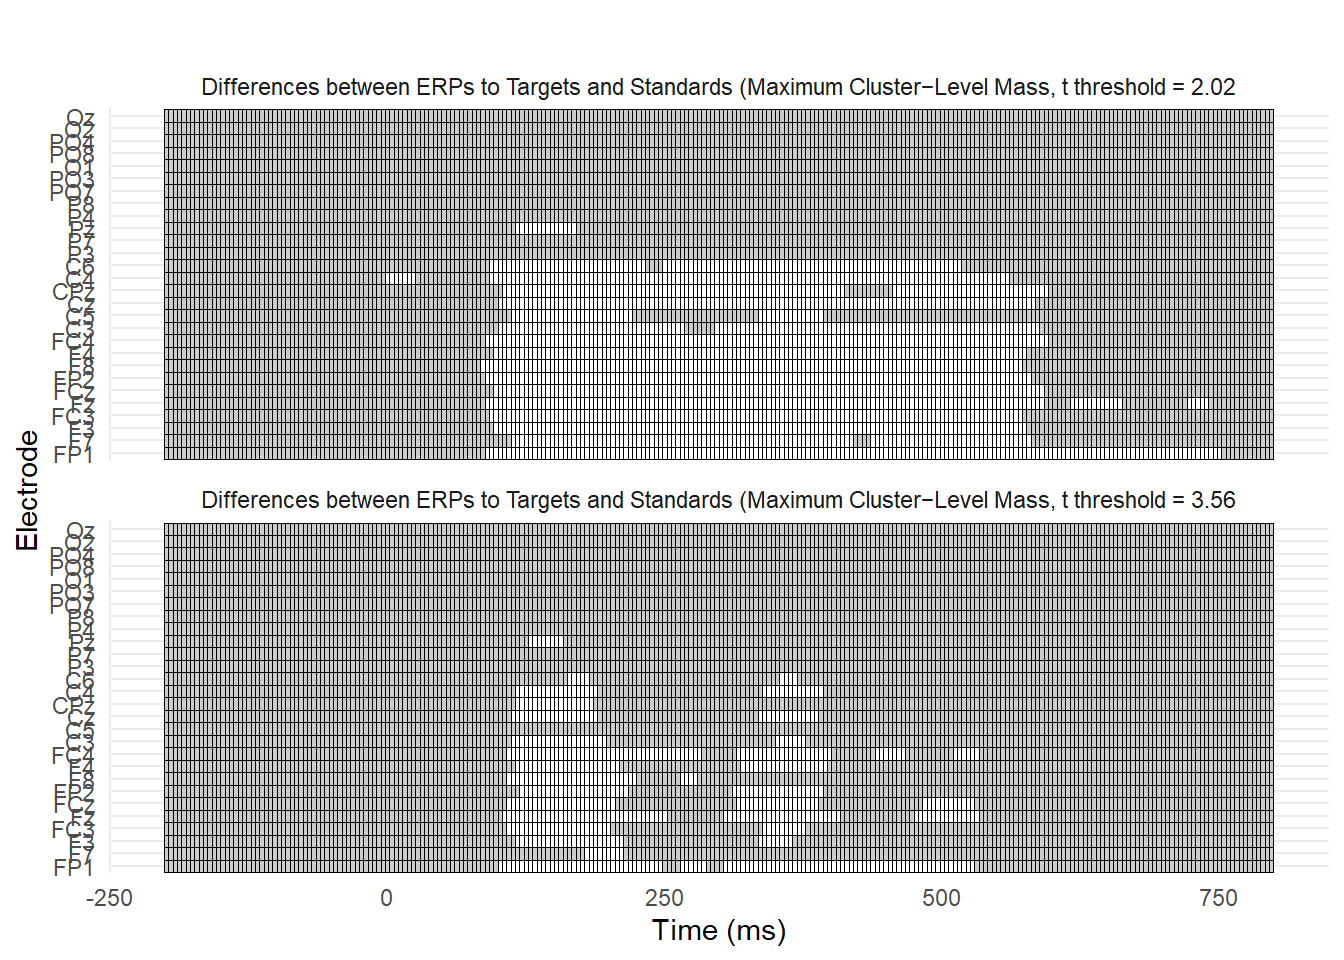
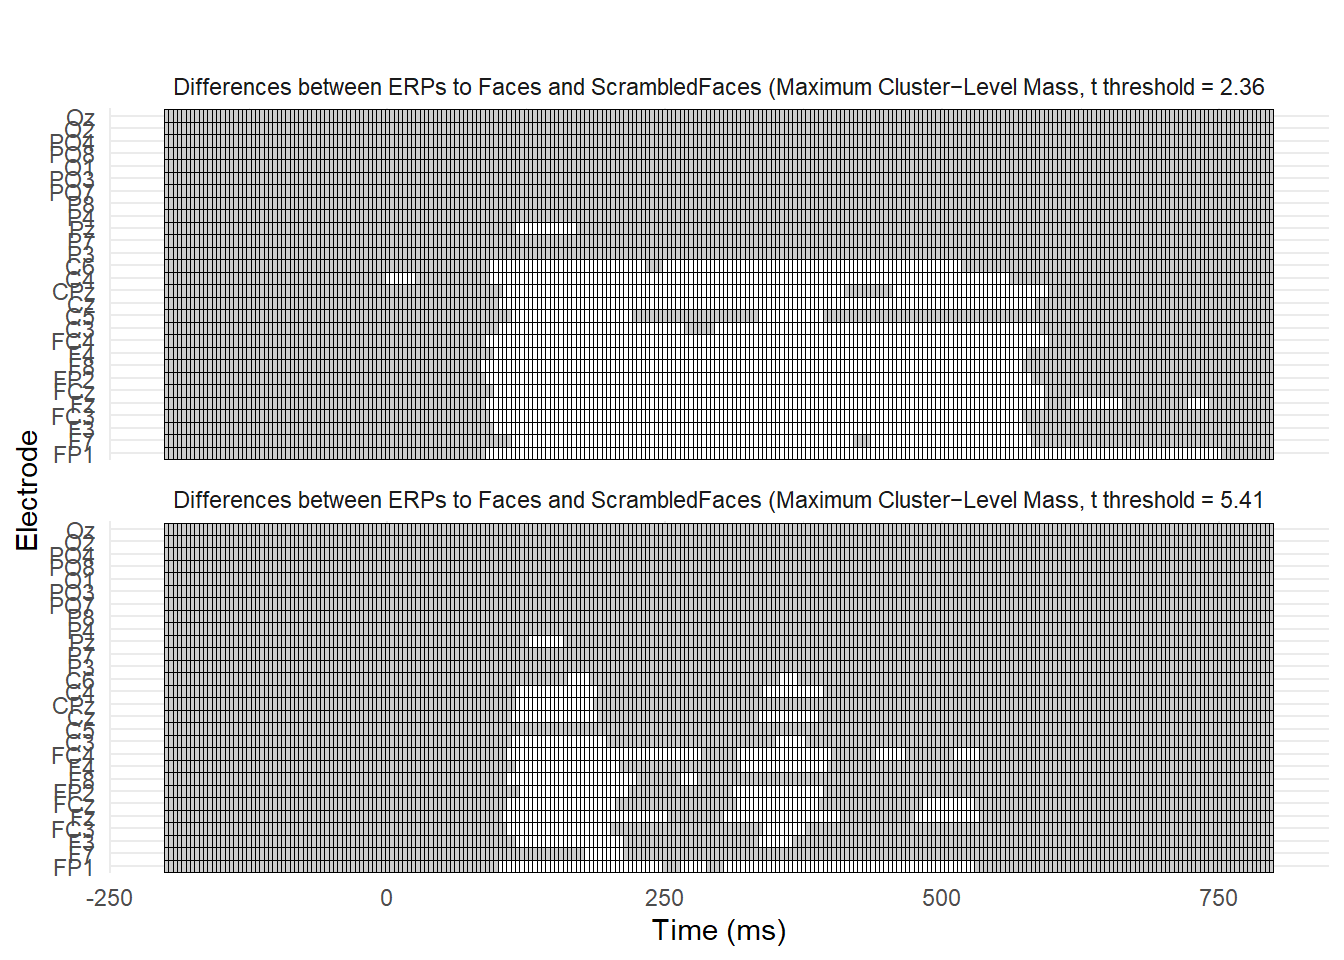
update

Changed region(s): [[0.125, 0.0625, 0.9375, 0.125], [0.125, 0.5, 0.9375, 0.5312]]

diff --git a/progettotest.html b/progettotest.html
@@ -191,8 +191,8 @@ Figure&nbsp;1: <strong>Figura 1.</strong> ERP (<em>Event-related potentials</em>
 <span id="cb3-23"><a href="#cb3-23" aria-hidden="true" tabindex="-1"></a>    )</span>
 <span id="cb3-24"><a href="#cb3-24" aria-hidden="true" tabindex="-1"></a>  )<span class="sc">%&gt;%</span></span>
 <span id="cb3-25"><a href="#cb3-25" aria-hidden="true" tabindex="-1"></a>  <span class="fu">mutate</span>(<span class="at">threshold_label =</span> <span class="fu">case_when</span>(</span>
-<span id="cb3-26"><a href="#cb3-26" aria-hidden="true" tabindex="-1"></a>    threshold <span class="sc">==</span> t_crit_05 <span class="sc">~</span> <span class="st">"Differences between ERPs to Targets and Standards (Maximum Cluster−Level Mass, t threshold = 2.02"</span>,</span>
-<span id="cb3-27"><a href="#cb3-27" aria-hidden="true" tabindex="-1"></a>    threshold <span class="sc">==</span> t_crit_001 <span class="sc">~</span> <span class="st">"Differences between ERPs to Targets and Standards (Maximum Cluster−Level Mass, t threshold = 3.56"</span></span>
+<span id="cb3-26"><a href="#cb3-26" aria-hidden="true" tabindex="-1"></a>    threshold <span class="sc">==</span> t_crit_05 <span class="sc">~</span> <span class="st">"Differences between ERPs to Faces and ScrambledFaces (Maximum Cluster−Level Mass, t threshold = 2.36"</span>,</span>
+<span id="cb3-27"><a href="#cb3-27" aria-hidden="true" tabindex="-1"></a>    threshold <span class="sc">==</span> t_crit_001 <span class="sc">~</span> <span class="st">"Differences between ERPs to Faces and ScrambledFaces (Maximum Cluster−Level Mass, t threshold = 5.41"</span></span>
 <span id="cb3-28"><a href="#cb3-28" aria-hidden="true" tabindex="-1"></a>  ))</span>
 <span id="cb3-29"><a href="#cb3-29" aria-hidden="true" tabindex="-1"></a></span>
 <span id="cb3-30"><a href="#cb3-30" aria-hidden="true" tabindex="-1"></a><span class="co"># 4) Plot with ggplot2</span></span>
@@ -210,6 +210,186 @@ Figure&nbsp;1: <strong>Figura 1.</strong> ERP (<em>Event-related potentials</em>
 <div>
 <figure class="figure">
 <p><img src="progettotest_files/figure-html/unnamed-chunk-7-1.png" class="img-fluid figure-img" width="672"></p>
+</figure>
+</div>
+</div>
+</div>
+<div class="cell">
+<div class="sourceCode cell-code" id="cb4"><pre class="sourceCode r code-with-copy"><code class="sourceCode r"><span id="cb4-1"><a href="#cb4-1" aria-hidden="true" tabindex="-1"></a><span class="co"># 3) Build the full grid of channel×time:</span></span>
+<span id="cb4-2"><a href="#cb4-2" aria-hidden="true" tabindex="-1"></a>full_grid <span class="ot">&lt;-</span> <span class="fu">expand_grid</span>(</span>
+<span id="cb4-3"><a href="#cb4-3" aria-hidden="true" tabindex="-1"></a>  <span class="at">channel =</span> <span class="fu">unique</span>(t_df<span class="sc">$</span>channel),</span>
+<span id="cb4-4"><a href="#cb4-4" aria-hidden="true" tabindex="-1"></a>  <span class="at">time    =</span> <span class="fu">unique</span>(t_df<span class="sc">$</span>time)</span>
+<span id="cb4-5"><a href="#cb4-5" aria-hidden="true" tabindex="-1"></a>)</span>
+<span id="cb4-6"><a href="#cb4-6" aria-hidden="true" tabindex="-1"></a></span>
+<span id="cb4-7"><a href="#cb4-7" aria-hidden="true" tabindex="-1"></a><span class="co"># 4) Left‐join both tables onto it:</span></span>
+<span id="cb4-8"><a href="#cb4-8" aria-hidden="true" tabindex="-1"></a>plot_df <span class="ot">&lt;-</span> full_grid <span class="sc">%&gt;%</span></span>
+<span id="cb4-9"><a href="#cb4-9" aria-hidden="true" tabindex="-1"></a>  <span class="fu">left_join</span>(t_df <span class="sc">%&gt;%</span> <span class="fu">select</span>(channel, time, t_obs), <span class="at">by =</span> <span class="fu">c</span>(<span class="st">"channel"</span>,<span class="st">"time"</span>)) <span class="sc">%&gt;%</span></span>
+<span id="cb4-10"><a href="#cb4-10" aria-hidden="true" tabindex="-1"></a>  <span class="fu">left_join</span>(raster_df <span class="sc">%&gt;%</span> <span class="fu">select</span>(channel, time, p_adj), <span class="at">by =</span> <span class="fu">c</span>(<span class="st">"channel"</span>,<span class="st">"time"</span>))</span>
+<span id="cb4-11"><a href="#cb4-11" aria-hidden="true" tabindex="-1"></a>t_crit_05 <span class="ot">&lt;-</span> <span class="fl">2.36</span></span>
+<span id="cb4-12"><a href="#cb4-12" aria-hidden="true" tabindex="-1"></a><span class="co"># For uncorrected p &lt; 0.001</span></span>
+<span id="cb4-13"><a href="#cb4-13" aria-hidden="true" tabindex="-1"></a>t_crit_001 <span class="ot">&lt;-</span> <span class="fl">5.41</span></span>
+<span id="cb4-14"><a href="#cb4-14" aria-hidden="true" tabindex="-1"></a><span class="co"># After running the first with t_crit = 2.36</span></span>
+<span id="cb4-15"><a href="#cb4-15" aria-hidden="true" tabindex="-1"></a>final_df_A <span class="ot">&lt;-</span> plot_df <span class="sc">%&gt;%</span> <span class="fu">mutate</span>(<span class="at">threshold =</span> t_crit_05)</span>
+<span id="cb4-16"><a href="#cb4-16" aria-hidden="true" tabindex="-1"></a><span class="co"># After running the second with t_crit = 5.41</span></span>
+<span id="cb4-17"><a href="#cb4-17" aria-hidden="true" tabindex="-1"></a>final_df_B <span class="ot">&lt;-</span> plot_df <span class="sc">%&gt;%</span> <span class="fu">mutate</span>(<span class="at">threshold =</span> t_crit_001)</span>
+<span id="cb4-18"><a href="#cb4-18" aria-hidden="true" tabindex="-1"></a>combined_df <span class="ot">&lt;-</span> <span class="fu">bind_rows</span>(final_df_A, final_df_B)</span>
+<span id="cb4-19"><a href="#cb4-19" aria-hidden="true" tabindex="-1"></a>combined_df <span class="ot">&lt;-</span> combined_df <span class="sc">%&gt;%</span></span>
+<span id="cb4-20"><a href="#cb4-20" aria-hidden="true" tabindex="-1"></a>  <span class="fu">mutate</span>(</span>
+<span id="cb4-21"><a href="#cb4-21" aria-hidden="true" tabindex="-1"></a>    <span class="at">color =</span> <span class="fu">case_when</span>(</span>
+<span id="cb4-22"><a href="#cb4-22" aria-hidden="true" tabindex="-1"></a>      t_obs <span class="sc">&gt;</span>  threshold  <span class="sc">~</span> <span class="st">"white"</span>,  <span class="co"># significant positive</span></span>
+<span id="cb4-23"><a href="#cb4-23" aria-hidden="true" tabindex="-1"></a>      t_obs <span class="sc">&lt;</span> <span class="sc">-</span>threshold  <span class="sc">~</span> <span class="st">"black"</span>,  <span class="co"># significant negative</span></span>
+<span id="cb4-24"><a href="#cb4-24" aria-hidden="true" tabindex="-1"></a>      <span class="cn">TRUE</span>                              <span class="sc">~</span> <span class="st">"grey80"</span>  <span class="co"># all else</span></span>
+<span id="cb4-25"><a href="#cb4-25" aria-hidden="true" tabindex="-1"></a>    )</span>
+<span id="cb4-26"><a href="#cb4-26" aria-hidden="true" tabindex="-1"></a>  )<span class="sc">%&gt;%</span></span>
+<span id="cb4-27"><a href="#cb4-27" aria-hidden="true" tabindex="-1"></a>  <span class="fu">mutate</span>(<span class="at">threshold_label =</span> <span class="fu">case_when</span>(</span>
+<span id="cb4-28"><a href="#cb4-28" aria-hidden="true" tabindex="-1"></a>    threshold <span class="sc">==</span> t_crit_05 <span class="sc">~</span> <span class="st">"Differences between ERPs to Targets and Standards (Maximum Cluster−Level Mass, t threshold = 2.36"</span>,</span>
+<span id="cb4-29"><a href="#cb4-29" aria-hidden="true" tabindex="-1"></a>    threshold <span class="sc">==</span> t_crit_001 <span class="sc">~</span> <span class="st">"Differences between ERPs to Targets and Standards (Maximum Cluster−Level Mass, t threshold = 5.41"</span></span>
+<span id="cb4-30"><a href="#cb4-30" aria-hidden="true" tabindex="-1"></a>  ))</span>
+<span id="cb4-31"><a href="#cb4-31" aria-hidden="true" tabindex="-1"></a><span class="co"># 4) Plot with ggplot2</span></span>
+<span id="cb4-32"><a href="#cb4-32" aria-hidden="true" tabindex="-1"></a><span class="fu">ggplot</span>(combined_df, <span class="fu">aes</span>(<span class="at">x =</span> time, <span class="at">y =</span> channel, <span class="at">fill =</span> color)) <span class="sc">+</span></span>
+<span id="cb4-33"><a href="#cb4-33" aria-hidden="true" tabindex="-1"></a>  <span class="fu">geom_tile</span>(<span class="at">color =</span> <span class="st">"black"</span>, <span class="at">size =</span> <span class="fl">0.3</span>) <span class="sc">+</span> </span>
+<span id="cb4-34"><a href="#cb4-34" aria-hidden="true" tabindex="-1"></a>  <span class="fu">facet_wrap</span>(<span class="sc">~</span> threshold_label, <span class="at">ncol =</span> <span class="dv">1</span>) <span class="sc">+</span></span>
+<span id="cb4-35"><a href="#cb4-35" aria-hidden="true" tabindex="-1"></a>  <span class="fu">scale_fill_manual</span>(<span class="at">values =</span> <span class="fu">c</span>(<span class="st">"white"</span> <span class="ot">=</span> <span class="st">"white"</span>, <span class="st">"black"</span> <span class="ot">=</span> <span class="st">"black"</span>, <span class="st">"grey80"</span> <span class="ot">=</span> <span class="st">"grey80"</span>)) <span class="sc">+</span></span>
+<span id="cb4-36"><a href="#cb4-36" aria-hidden="true" tabindex="-1"></a>  <span class="fu">labs</span>(</span>
+<span id="cb4-37"><a href="#cb4-37" aria-hidden="true" tabindex="-1"></a>    <span class="at">title =</span> <span class="st">""</span>,</span>
+<span id="cb4-38"><a href="#cb4-38" aria-hidden="true" tabindex="-1"></a>    <span class="at">x =</span> <span class="st">"Time (ms)"</span>, <span class="at">y =</span> <span class="st">"Electrode"</span></span>
+<span id="cb4-39"><a href="#cb4-39" aria-hidden="true" tabindex="-1"></a>  ) <span class="sc">+</span></span>
+<span id="cb4-40"><a href="#cb4-40" aria-hidden="true" tabindex="-1"></a>  <span class="fu">theme_minimal</span>() <span class="sc">+</span></span>
+<span id="cb4-41"><a href="#cb4-41" aria-hidden="true" tabindex="-1"></a>  <span class="fu">theme</span>(<span class="at">legend.position =</span> <span class="st">"none"</span>)</span></code><button title="Copy to Clipboard" class="code-copy-button"><i class="bi"></i></button></pre></div>
+<div class="cell-output-display">
+<div>
+<figure class="figure">
+<p><img src="progettotest_files/figure-html/unnamed-chunk-8-1.png" class="img-fluid figure-img" width="672"></p>
+</figure>
+</div>
+</div>
+</div>
+<div class="cell">
+<div class="sourceCode cell-code" id="cb5"><pre class="sourceCode r code-with-copy"><code class="sourceCode r"><span id="cb5-1"><a href="#cb5-1" aria-hidden="true" tabindex="-1"></a>df_CAD <span class="ot">&lt;-</span> df <span class="sc">%&gt;%</span> </span>
+<span id="cb5-2"><a href="#cb5-2" aria-hidden="true" tabindex="-1"></a>  <span class="fu">filter</span>(time <span class="sc">&gt;=</span> <span class="dv">150</span>, time <span class="sc">&lt;=</span> <span class="dv">190</span>,channel <span class="sc">%in%</span> <span class="fu">c</span>(<span class="st">"F4"</span>,<span class="st">"FC4"</span>,<span class="st">"F8"</span>)) </span>
+<span id="cb5-3"><a href="#cb5-3" aria-hidden="true" tabindex="-1"></a>mod_mix<span class="ot">=</span><span class="fu">lmer</span>(value<span class="sc">~</span> channel<span class="sc">*</span>condition <span class="sc">+</span>(channel<span class="sc">|</span>id),<span class="at">data=</span>df_CAD,<span class="at">control =</span> <span class="fu">lmerControl</span>(<span class="at">optimizer =</span> <span class="st">"optimx"</span>, <span class="at">optCtrl =</span> <span class="fu">list</span>(<span class="at">method =</span> <span class="st">"nlminb"</span>)))</span></code><button title="Copy to Clipboard" class="code-copy-button"><i class="bi"></i></button></pre></div>
+<div class="cell-output cell-output-stderr">
+<pre><code>Caricamento dei namespace richiesti: optimx</code></pre>
+</div>
+<div class="sourceCode cell-code" id="cb7"><pre class="sourceCode r code-with-copy"><code class="sourceCode r"><span id="cb7-1"><a href="#cb7-1" aria-hidden="true" tabindex="-1"></a>car<span class="sc">::</span><span class="fu">Anova</span>(mod_mix)</span></code><button title="Copy to Clipboard" class="code-copy-button"><i class="bi"></i></button></pre></div>
+<div class="cell-output cell-output-stdout">
+<pre><code>Analysis of Deviance Table (Type II Wald chisquare tests)
+
+Response: value
+                     Chisq Df Pr(&gt;Chisq)    
+channel             17.861  2  0.0001323 ***
+condition         1914.497  1  &lt; 2.2e-16 ***
+channel:condition   10.633  2  0.0049098 ** 
+---
+Signif. codes:  0 '***' 0.001 '**' 0.01 '*' 0.05 '.' 0.1 ' ' 1</code></pre>
+</div>
+<div class="sourceCode cell-code" id="cb9"><pre class="sourceCode r code-with-copy"><code class="sourceCode r"><span id="cb9-1"><a href="#cb9-1" aria-hidden="true" tabindex="-1"></a>df_CAD<span class="sc">$</span>residuals<span class="ot">=</span><span class="fu">residuals</span>(mod_mix)</span>
+<span id="cb9-2"><a href="#cb9-2" aria-hidden="true" tabindex="-1"></a>p <span class="ot">&lt;-</span> <span class="fu">ggplot</span>(df_CAD, <span class="fu">aes</span>(<span class="at">x=</span>id, <span class="at">y=</span>residuals,<span class="at">fill=</span>condition)) <span class="sc">+</span> <span class="fu">geom_boxplot</span>()</span>
+<span id="cb9-3"><a href="#cb9-3" aria-hidden="true" tabindex="-1"></a>p</span></code><button title="Copy to Clipboard" class="code-copy-button"><i class="bi"></i></button></pre></div>
+<div class="cell-output-display">
+<div>
+<figure class="figure">
+<p><img src="progettotest_files/figure-html/unnamed-chunk-9-1.png" class="img-fluid figure-img" width="672"></p>
+</figure>
+</div>
+</div>
+</div>
+<div class="cell">
+<div class="sourceCode cell-code" id="cb10"><pre class="sourceCode r code-with-copy"><code class="sourceCode r"><span id="cb10-1"><a href="#cb10-1" aria-hidden="true" tabindex="-1"></a>dataCoeff<span class="ot">=</span><span class="fu">obs2coeffWithin</span>(value<span class="sc">~</span> channel<span class="sc">*</span>condition,<span class="at">data=</span>df,<span class="at">units=</span><span class="sc">~</span>id)</span>
+<span id="cb10-2"><a href="#cb10-2" aria-hidden="true" tabindex="-1"></a><span class="fu">colnames</span>(dataCoeff<span class="sc">$</span>coeffWithin)</span></code><button title="Copy to Clipboard" class="code-copy-button"><i class="bi"></i></button></pre></div>
+<div class="cell-output cell-output-stdout">
+<pre><code> [1] "(Intercept)"                        "channelF7"                         
+ [3] "channelF3"                          "channelFC3"                        
+ [5] "channelFz"                          "channelFCz"                        
+ [7] "channelFP2"                         "channelF8"                         
+ [9] "channelF4"                          "channelFC4"                        
+[11] "channelC3"                          "channelC5"                         
+[13] "channelCz"                          "channelCPz"                        
+[15] "channelC4"                          "channelC6"                         
+[17] "channelP3"                          "channelP7"                         
+[19] "channelPz"                          "channelP4"                         
+[21] "channelP8"                          "channelPO7"                        
+[23] "channelPO3"                         "channelO1"                         
+[25] "channelPO8"                         "channelPO4"                        
+[27] "channelO2"                          "channelOz"                         
+[29] "conditionScrambledFaces"            "channelF7:conditionScrambledFaces" 
+[31] "channelF3:conditionScrambledFaces"  "channelFC3:conditionScrambledFaces"
+[33] "channelFz:conditionScrambledFaces"  "channelFCz:conditionScrambledFaces"
+[35] "channelFP2:conditionScrambledFaces" "channelF8:conditionScrambledFaces" 
+[37] "channelF4:conditionScrambledFaces"  "channelFC4:conditionScrambledFaces"
+[39] "channelC3:conditionScrambledFaces"  "channelC5:conditionScrambledFaces" 
+[41] "channelCz:conditionScrambledFaces"  "channelCPz:conditionScrambledFaces"
+[43] "channelC4:conditionScrambledFaces"  "channelC6:conditionScrambledFaces" 
+[45] "channelP3:conditionScrambledFaces"  "channelP7:conditionScrambledFaces" 
+[47] "channelPz:conditionScrambledFaces"  "channelP4:conditionScrambledFaces" 
+[49] "channelP8:conditionScrambledFaces"  "channelPO7:conditionScrambledFaces"
+[51] "channelPO3:conditionScrambledFaces" "channelO1:conditionScrambledFaces" 
+[53] "channelPO8:conditionScrambledFaces" "channelPO4:conditionScrambledFaces"
+[55] "channelO2:conditionScrambledFaces"  "channelOz:conditionScrambledFaces" </code></pre>
+</div>
+<div class="sourceCode cell-code" id="cb12"><pre class="sourceCode r code-with-copy"><code class="sourceCode r"><span id="cb12-1"><a href="#cb12-1" aria-hidden="true" tabindex="-1"></a>Y<span class="ot">=</span>dataCoeff<span class="sc">$</span>coeffWithin[,<span class="dv">29</span>]<span class="sc">+</span><span class="fu">cbind</span>(<span class="at">channelFP1=</span><span class="dv">0</span>,dataCoeff<span class="sc">$</span>coeffWithin[,<span class="dv">30</span><span class="sc">:</span><span class="dv">56</span>])</span>
+<span id="cb12-2"><a href="#cb12-2" aria-hidden="true" tabindex="-1"></a><span class="fu">colnames</span>(Y)<span class="ot">=</span><span class="fu">gsub</span>(<span class="st">":conditionScrambledFaces"</span>,<span class="st">""</span>,<span class="fu">colnames</span>(Y))</span>
+<span id="cb12-3"><a href="#cb12-3" aria-hidden="true" tabindex="-1"></a><span class="fu">colnames</span>(Y)</span></code><button title="Copy to Clipboard" class="code-copy-button"><i class="bi"></i></button></pre></div>
+<div class="cell-output cell-output-stdout">
+<pre><code> [1] "channelFP1" "channelF7"  "channelF3"  "channelFC3" "channelFz" 
+ [6] "channelFCz" "channelFP2" "channelF8"  "channelF4"  "channelFC4"
+[11] "channelC3"  "channelC5"  "channelCz"  "channelCPz" "channelC4" 
+[16] "channelC6"  "channelP3"  "channelP7"  "channelPz"  "channelP4" 
+[21] "channelP8"  "channelPO7" "channelPO3" "channelO1"  "channelPO8"
+[26] "channelPO4" "channelO2"  "channelOz" </code></pre>
+</div>
+<div class="sourceCode cell-code" id="cb14"><pre class="sourceCode r code-with-copy"><code class="sourceCode r"><span id="cb14-1"><a href="#cb14-1" aria-hidden="true" tabindex="-1"></a>res<span class="ot">=</span><span class="fu">flip</span>(Y,<span class="at">perms=</span><span class="dv">10000</span>)</span>
+<span id="cb14-2"><a href="#cb14-2" aria-hidden="true" tabindex="-1"></a>res<span class="ot">=</span><span class="fu">flip.adjust</span>(res)</span>
+<span id="cb14-3"><a href="#cb14-3" aria-hidden="true" tabindex="-1"></a><span class="fu">summary</span>(res)</span></code><button title="Copy to Clipboard" class="code-copy-button"><i class="bi"></i></button></pre></div>
+<div class="cell-output cell-output-stdout">
+<pre><code> Call:
+ flip(Y = Y, perms = 10000) 
+9999 permutations.
+
+           Test   Stat tail p-value Adjust:maxT sig.
+channelFP1    t -6.650   &gt;&lt;  0.0002      0.0002  ***
+channelF7     t -4.192   &gt;&lt;  0.0002      0.0006  ***
+channelF3     t -4.061   &gt;&lt;  0.0004      0.0006  ***
+channelFC3    t -3.393   &gt;&lt;  0.0002      0.0036   **
+channelFz     t -7.126   &gt;&lt;  0.0002      0.0002  ***
+channelFCz    t -6.458   &gt;&lt;  0.0002      0.0002  ***
+channelFP2    t -4.953   &gt;&lt;  0.0002      0.0002  ***
+channelF8     t -4.696   &gt;&lt;  0.0002      0.0002  ***
+channelF4     t -4.955   &gt;&lt;  0.0002      0.0002  ***
+channelFC4    t -6.271   &gt;&lt;  0.0002      0.0002  ***
+channelC3     t -4.719   &gt;&lt;  0.0002      0.0002  ***
+channelC5     t -1.628   &gt;&lt;  0.1128      0.2098     
+channelCz     t -5.019   &gt;&lt;  0.0002      0.0002  ***
+channelCPz    t -5.017   &gt;&lt;  0.0002      0.0002  ***
+channelC4     t -4.534   &gt;&lt;  0.0002      0.0002  ***
+channelC6     t -4.037   &gt;&lt;  0.0002      0.0006  ***
+channelP3     t  2.580   &gt;&lt;  0.0094      0.0318    *
+channelP7     t  7.987   &gt;&lt;  0.0002      0.0002  ***
+channelPz     t -0.757   &gt;&lt;  0.4614      0.4614     
+channelP4     t  3.228   &gt;&lt;  0.0010      0.0054   **
+channelP8     t  7.618   &gt;&lt;  0.0002      0.0002  ***
+channelPO7    t  7.737   &gt;&lt;  0.0002      0.0002  ***
+channelPO3    t  3.660   &gt;&lt;  0.0004      0.0020   **
+channelO1     t  3.644   &gt;&lt;  0.0004      0.0020   **
+channelPO8    t  6.915   &gt;&lt;  0.0002      0.0002  ***
+channelPO4    t  4.392   &gt;&lt;  0.0002      0.0004  ***
+channelO2     t  4.248   &gt;&lt;  0.0002      0.0006  ***
+channelOz     t  3.130   &gt;&lt;  0.0010      0.0070   **</code></pre>
+</div>
+<div class="sourceCode cell-code" id="cb16"><pre class="sourceCode r code-with-copy"><code class="sourceCode r"><span id="cb16-1"><a href="#cb16-1" aria-hidden="true" tabindex="-1"></a><span class="co"># get the a z value from the adjusted p-value for each channel, just for visual purposes:</span></span>
+<span id="cb16-2"><a href="#cb16-2" aria-hidden="true" tabindex="-1"></a>pvals<span class="ot">=</span><span class="fu">getFlip</span>(res,<span class="st">"Adjust:maxT"</span>)</span>
+<span id="cb16-3"><a href="#cb16-3" aria-hidden="true" tabindex="-1"></a><span class="fu">rownames</span>(pvals)<span class="ot">=</span><span class="fu">gsub</span>(<span class="st">"channel"</span>,<span class="st">""</span>,<span class="fu">rownames</span>(pvals))</span>
+<span id="cb16-4"><a href="#cb16-4" aria-hidden="true" tabindex="-1"></a></span>
+<span id="cb16-5"><a href="#cb16-5" aria-hidden="true" tabindex="-1"></a><span class="co"># match to eeg coordinates</span></span>
+<span id="cb16-6"><a href="#cb16-6" aria-hidden="true" tabindex="-1"></a><span class="fu">data</span>(<span class="st">"eegcoord"</span>)</span>
+<span id="cb16-7"><a href="#cb16-7" aria-hidden="true" tabindex="-1"></a>cidx <span class="ot">&lt;-</span> <span class="fu">match</span>(<span class="fu">rownames</span>(pvals),<span class="fu">rownames</span>(eegcoord))</span>
+<span id="cb16-8"><a href="#cb16-8" aria-hidden="true" tabindex="-1"></a></span>
+<span id="cb16-9"><a href="#cb16-9" aria-hidden="true" tabindex="-1"></a><span class="co"># plot t-stat in 2d</span></span>
+<span id="cb16-10"><a href="#cb16-10" aria-hidden="true" tabindex="-1"></a><span class="fu">eegspace</span>(eegcoord[cidx,<span class="dv">4</span><span class="sc">:</span><span class="dv">5</span>],<span class="sc">-</span><span class="fu">log10</span>(pvals[,<span class="dv">1</span>]),<span class="at">cex.point =</span> <span class="dv">3</span>,<span class="at">colorlab=</span><span class="st">"-log10(adj-p)"</span>,<span class="at">mycolors=</span><span class="fu">heat.colors</span>(<span class="dv">4</span>))</span></code><button title="Copy to Clipboard" class="code-copy-button"><i class="bi"></i></button></pre></div>
+<div class="cell-output-display">
+<div>
+<figure class="figure">
+<p><img src="progettotest_files/figure-html/unnamed-chunk-10-1.png" class="img-fluid figure-img" width="672"></p>
 </figure>
 </div>
 </div>
